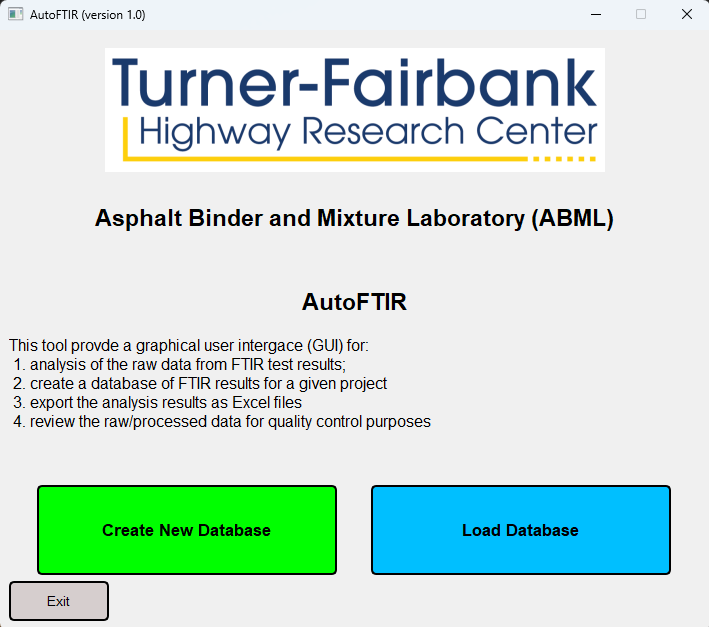
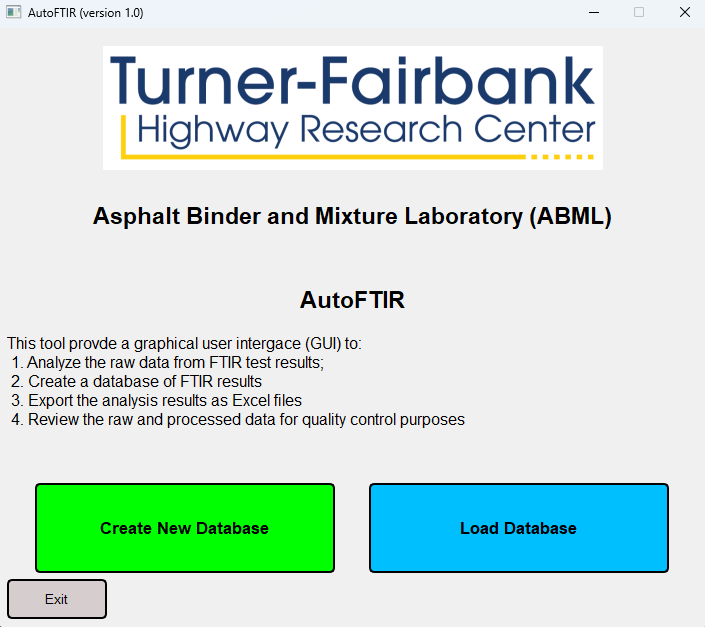
Update README file before change to public repo

diff --git a/scripts/Sub03_MainPage.py b/scripts/Sub03_MainPage.py
@@ -48,7 +48,9 @@ class Main_Window(QMainWindow):
         super().__init__()
         # Creating the main window. 
         self.setWindowTitle(f"AutoFTIR (version 1.0) | Database name: {DB_Name}")
-        self.setFixedSize(1500, 900)
+        # self.setFixedSize(1250, 900)
+        self.resize(1250, 900)
+        self.setMinimumSize(900, 700)
         self.setStyleSheet("background-color: #f0f0f0;")
         # Create shared data object
         self.shared_data = SharedData()
@@ -399,7 +401,7 @@ class MainPage(QMainWindow):
         FileList, _ = QFileDialog.getOpenFileNames(self, caption='Please select new FTIR test result files:', 
                                                    directory='', filter="DPT Files (*.dpt);;All Files (*)")
         self.CurrentFileList = FileList
-        self.CurrentFileIndex= 0
+        self.CurrentFileIndex= -1
         # Check on files that are selected. 
         if len(FileList) == 0:          # Do nothing in case files are NOT selected. 
             return
@@ -411,7 +413,19 @@ class MainPage(QMainWindow):
         self.Button_ReviewDB.setEnabled(False)
         self.Button_ExportDB.setEnabled(False)
         # Call the function to renew the plots.
-        self.Renew_MainPlot_4Next_File()
+        while True:
+            self.CurrentFileIndex += 1
+            Check = self.Check_EndofLoop()
+            if Check:
+                return
+            # ----------------------------------------------------------------------------------------------------------
+            # Update the plots and everything. 
+            try:
+                self.Renew_MainPlot_4Next_File()
+                break
+            except:
+                # print(f'Skipping {self.CurrentFileList[self.CurrentFileIndex]}')
+                continue
     # ------------------------------------------------------------------------------------------------------------------
     def Review_Edit_DB_Function(self):
         self.stack.setCurrentIndex(1)  # Switch to the second page
@@ -708,13 +722,19 @@ class MainPage(QMainWindow):
             "Deconv_AliphaticList": Abinary, "Deconv_AliphaticList_shape": Ashape, "Deconv_AliphaticList_dtype": Adtype })
         # --------------------------------------------------------------------------------------------------------------
         # Update the index and check for end of the process. 
-        self.CurrentFileIndex += 1
-        Check = self.Check_EndofLoop()
-        if Check:
-            return
-        # --------------------------------------------------------------------------------------------------------------
-        # Update the plots and everything. 
-        self.Renew_MainPlot_4Next_File()
+        while True:
+            self.CurrentFileIndex += 1
+            Check = self.Check_EndofLoop()
+            if Check:
+                return
+            # ----------------------------------------------------------------------------------------------------------
+            # Update the plots and everything. 
+            try:
+                self.Renew_MainPlot_4Next_File()
+                break
+            except:
+                # print(f'Skipping {self.CurrentFileList[self.CurrentFileIndex]}')
+                continue
         # Return Nothing.
         return
     # ------------------------------------------------------------------------------------------------------------------
@@ -814,13 +834,19 @@ class MainPage(QMainWindow):
             })
         # --------------------------------------------------------------------------------------------------------------
         # Update the index and check for end of the process. 
-        self.CurrentFileIndex += 1
-        Check = self.Check_EndofLoop()
-        if Check:
-            return
-        # --------------------------------------------------------------------------------------------------------------
-        # Update the plots and everything. 
-        self.Renew_MainPlot_4Next_File()
+        while True:
+            self.CurrentFileIndex += 1
+            Check = self.Check_EndofLoop()
+            if Check:
+                return
+            # ----------------------------------------------------------------------------------------------------------
+            # Update the plots and everything. 
+            try:
+                self.Renew_MainPlot_4Next_File()
+                break
+            except:
+                # print(f'Skipping {self.CurrentFileList[self.CurrentFileIndex]}')
+                continue
         # Return Nothing.
         return
     # ------------------------------------------------------------------------------------------------------------------

diff --git a/scripts/Sub01_WelcomePage.py b/scripts/Sub01_WelcomePage.py
@@ -55,11 +55,11 @@ class WelcomePage(QMainWindow):
         Label_Title.setStyleSheet("color: #000000;")
         layout.addWidget(Label_Title)
         # Label_Description
-        Label_Description = QLabel(f"This tool provde a graphical user intergace (GUI) for:\n" + 
-                            f" 1. analysis of the raw data from FTIR test results;\n" + 
-                            f" 2. create a database of FTIR results for a given project\n" +
-                            f" 3. export the analysis results as Excel files\n" + 
-                            f" 4. review the raw/processed data for quality control purposes\n")
+        Label_Description = QLabel(f"This tool provde a graphical user intergace (GUI) to:\n" + 
+                            f" 1. Analyze the raw data from FTIR test results;\n" + 
+                            f" 2. Create a database of FTIR results\n" +
+                            f" 3. Export the analysis results as Excel files\n" + 
+                            f" 4. Review the raw and processed data for quality control purposes\n")
         Label_Description.setAlignment(Qt.AlignLeft)
         Label_Description.setFont(QFont("Arial", 12))
         Label_Description.setStyleSheet("color: #000000;")

diff --git a/scripts/Sub07_Deconvolution_Analysis.py b/scripts/Sub07_Deconvolution_Analysis.py
@@ -190,7 +190,8 @@ def Fit_Gaussian_to_Biggest_Peak(X, Y, Gaussians, Xmin=None, Xmax=None):
             break
         if trial == 2:
             print("Three trials didn't work!")
-            return Gaussians, Ycopy
+            raise Exception("Three trials didn't work!")
+            # return Gaussians, Ycopy
         else:
             # try smaller initial guess, maybe converge!
             initial_guess[1] /= 2
@@ -223,6 +224,10 @@ def gaussian_bell(x, mu, sigma, amplitude):
     :param amplitude: Peak hight of the Gaussian function. 
     :return: The calculated absorption values. 
     """
+    try: 
+        a = amplitude * np.exp(-0.5 * ((x - mu) / sigma) ** 2)
+    except:
+        print(mu, sigma, amplitude)
     return amplitude * np.exp(-0.5 * ((x - mu) / sigma) ** 2)
 # ======================================================================================================================
 # ======================================================================================================================

diff --git a/scripts/Sub05_ReviewPage.py b/scripts/Sub05_ReviewPage.py
@@ -403,9 +403,12 @@ class DB_ReviewPage(QMainWindow):
             for row_idx, row_data in enumerate(Rows):
                 for col_idx, cell_data in enumerate(row_data):
                     if col_idx in [5, 8, 11, 14, 17, 20, 23, 26, 29, 32, 35, 38]:
-                        item = QTableWidgetItem(f'{cell_data*100:.1f}%')
-                        ColorNumber = Get_Color_4_COV(cell_data)
-                        item.setBackground(QBrush(QColor(ColorNumber)))
+                        try:
+                            item = QTableWidgetItem(f'{cell_data*100:.1f}%')
+                            ColorNumber = Get_Color_4_COV(cell_data)
+                            item.setBackground(QBrush(QColor(ColorNumber)))
+                        except:
+                            item = QTableWidgetItem('None')
                     elif type(cell_data) == float:
                         item = QTableWidgetItem(f'{cell_data:.4f}')
                     else:

diff --git a/README.md b/README.md
@@ -14,7 +14,7 @@ Authors and Contributors:
 
 This repository contains the official implementation of the **"AutoFTIR"**.
 
-The **AutoFTIR** is a user-friendly Graphical User Interface (GUI) developed in Python to assist pavement engineers in analyzing the results of Fourier Transform Infrared (FTIR) spectroscopy on asphalt binders. The tool offers the following key features:
+The **AutoFTIR** is a user-friendly Graphical User Interface (GUI) developed in Python to assist pavement engineers in analyzing the Fourier Transform Infrared (FTIR) spectra of asphalt binders. The tool offers the following key features:
 
 - **Data Preprocessing**: Process raw FTIR spectra by applying baseline correction using the Asymmetric Least Squares (ALS) Smoothing method, followed by normalization of the largest peak to 0.15 within the wavenumber range of 600 to 1800 cm⁻¹.
 
@@ -88,13 +88,13 @@ python Main_GUI.py
 As an example, a database containing 329 FTIR test results for 54 different asphalt binders under various aging 
 conditions is provided at `./example/PTF5_DB.db`. In this database:
 
-* Each asphalt binder is identified by a B-number (a four-digit identification number).
-* The database includes details of the laboratory aging process and repetition numbers.
-* A column labeled "IsOutlier" tracks data points that are considered outliers, such as noisy measurements or those that deviate from the trends of other replicates.
+* Each asphalt binder is identified by a ID number (a four-digit identification number).
+* The database includes details of the laboratory aging state and number of repetitions.
+* A column labeled "IsOutlier" tracks data points that are considered outliers, such as noisy spectra or those that deviate from the trends of other replicates.
 
-The dataset contains both **Original** asphalt binders sourced from asphalt plants and **Extracted** asphalt binders obtained from various asphalt mixtures with different percentages of RAP content (0%, 20%, and 40%). Additionally, the dataset includes SBS-modified and rejuvenated asphalt binders. Users can either create their own database or load the provided example database to start working with the software.
+The dataset contains both **Original** and **Extracted** asphalt binders. Original asphalt binders were sourced from asphalt plants and producers, while extracted asphalt binders were obtained from various asphalt mixtures, which included varying percentages of RAP content (0%, 20%, and 40% by weight of total mixture). Additionally, the dataset includes SBS-modified and rejuvenated asphalt binders. Users can either create their own database or load the provided example database to start working with the software.
 
-When creating or loading a database, users can add FTIR test results to perform the required analysis. To do so, the FTIR spectrum must be provided as a `*.dpt` file. This file should be a text-based, two-column, comma-delimited format containing:
+When creating or loading a database, users can add FTIR test results to perform the required analysis. To do so, the FTIR spectrum must be provided as a `*.dpt` file. This file must be a text-based, two-column, comma-delimited format containing:
 1. Wavenumbers (in cm⁻¹)
 2. Absorbance values of the asphalt binder samples
 
@@ -102,7 +102,7 @@ The file must cover at least the wavenumber range of 550 to 1850 cm⁻¹. Exampl
 
 ## How to Use ##
 
-Upon running the code, the user should accept the "Terms of Use and Agreement", and then directed to the welcome page (see [Figure 1](#fig-welcome)). Here, user can either create a new database or load one. You may load the `./example/PTF5_DB.pd` database, which was provided with the package. 
+Upon running the code, the user will be prompted to review and accept the "Terms of Use and Agreement", and upon accepting will be directed to the welcome page (see [Figure 1](#fig-welcome)). Here the user can either create a new database or load an existing one. An example database, `./example/PTF5_DB.pd` database, is provided with the package. 
 
 <a id="fig-welcome"></a>
 <p align="center">
@@ -119,7 +119,7 @@ The main page (see [Figure 2](#fig-main-nodata)) appears after loading the datab
 <p align="center"><b>Figure 2:</b> Main Page (No Data Loaded)</p>
 
 
-By selecting each `*.dpt` file, it is loaded into the main page as shown in [Figure 3](#fig-main-data). The deconvolution analysis method is ran by default and the results are available at the middle right group box. The peaks for carbonyl, sulfoxide, and aliphatic functional groups were also autmoatically detected and showed as highlighted regions in the corresponding graphs. However, it is noted that this peak recognition algorithms is not fully reliable and the user should trim the peak boundaries using the sping boxes in the right group box in the main page. Then, the user could accept the analysis results by clicking on "OK" button, mark the analysis results as outlier, or discard the current analysis.
+After selecting a `*.dpt` file(s), it is loaded into the main page as shown in [Figure 3](#fig-main-data). The deconvolution analysis method is run by default and the results are available in the group box shown on the right middle section of [Figure 3](#fig-main-data). The peaks for carbonyl, sulfoxide, and aliphatic functional groups are automatically detected and shown as highlighted regions in the corresponding graphs. However, it is noted that this peak recognition algorithm may not be fully reliable, and the user should trim the peak boundaries as needed using the spin boxes in the right group box in the main page. The user can then either accept the analysis results by clicking on "OK" button, mark the analysis results as outlier, or discard the current analysis.
 
 <a id="fig-main-data"></a>
 <p align="center">
@@ -128,7 +128,7 @@ By selecting each `*.dpt` file, it is loaded into the main page as shown in [Fig
 <p align="center"><b>Figure 3:</b> Main Page (Data Loaded)</p>
 
 
-By clicking on "Review and Edit DB", the user will have access to all test results stored in the database (see [Figure 4](#fig-review)). In this page, the user can filter the stored data based on their B-number and state of laboratory aging. User can also select each row of the data by clicking on any cell, and then use the "Review/Modidy Selected Row" button to review or make changes to the preprocessing and analysis of that specific test data. 
+By clicking on "Review and Edit DB", the user will have access to all test results stored in the database (see [Figure 4](#fig-review)). In this page, the user can filter the stored data based on their ID number and laboratory aging level. User can also select each row of the data by clicking on any cell, and then use the "Review/Modify Selected Row" button to review or make changes to the preprocessing and analysis of that specific test data. 
 
 <a id="fig-review"></a>
 <p align="center">
@@ -136,7 +136,7 @@ By clicking on "Review and Edit DB", the user will have access to all test resul
 </p>
 <p align="center"><b>Figure 4:</b> Review Page</p>
 
-Finally, user can also access the analysis results after combining different replicates by clicking on "Show Analysis Results" button, as shown in [Figure 5](#fig-analysis). It is noted that before using this page, the user should perform this analysis by clicking on "Analyze DB and Export to Excel". The columns representing the COV of each parameter are also colormaps, indicating high COV values, so that the user can perform further quality control checks. 
+From the main page, the user can click on "Analyze DB and Export to Excel" button to combine different replicates and create an Excel export file. In addition, the analysis results are also available by clicking on the "Show Analysis Results" button, as shown in [Figure 5](#fig-analysis). The columns representing the Coefficient of Variation (COV) of each parameter are also colormaps, indicating high COV values, so that the user can perform further quality control checks. 
 
 <a id="fig-analysis"></a>
 <p align="center">
@@ -146,11 +146,11 @@ Finally, user can also access the analysis results after combining different rep
 
 ## Acknowledgement ##
 
-We sincerely thank Bethel La Plana and Steve Portillo for their efforts in preparing aged asphalt binder samples and conducting FTIR testing, Scott Parobeck and Frank Davis for handling asphalt mixtures and extractions, and Adrian Andriescu for their invaluable support throughout the project.
+We extend our sincere gratitude to Bethel La Plana and Steve Portillo for their contributions in preparing aged asphalt binder samples and performing FTIR testing; and to Scott Parobeck and Frank Davis for managing asphalt mixtures and extractions.
 
 ## Citation ##
 
-If you use our code or method in your work, please consider citing the following:
+If you use our code or method in your work, please cite the following:
 
 ```bibtex
 @misc{AbdollahiFTIRAnalysisTool2025,
